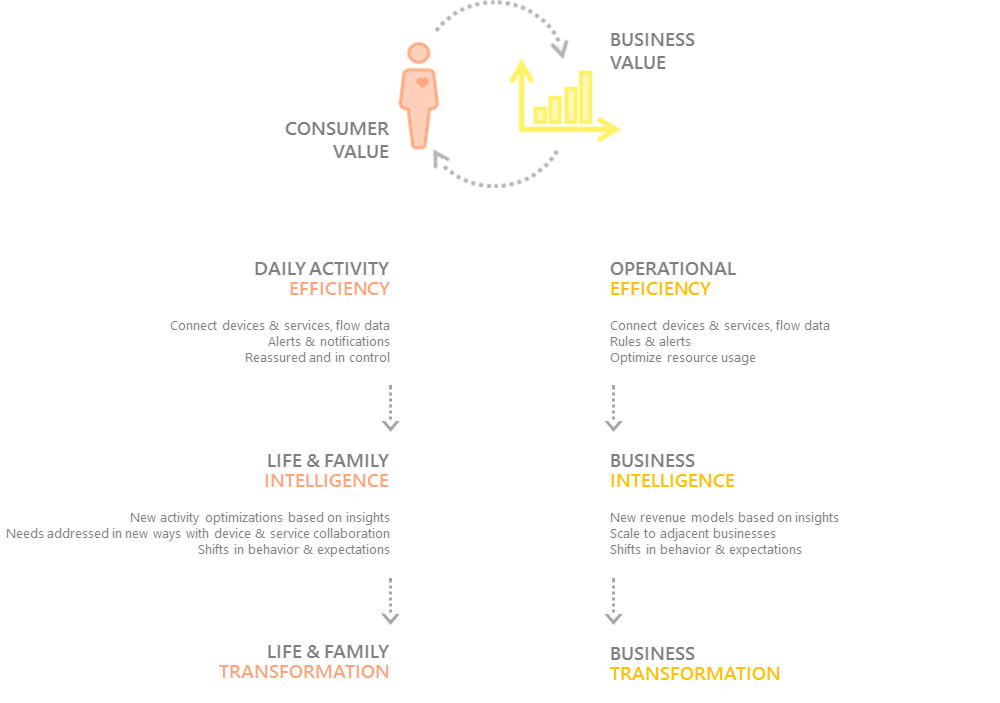
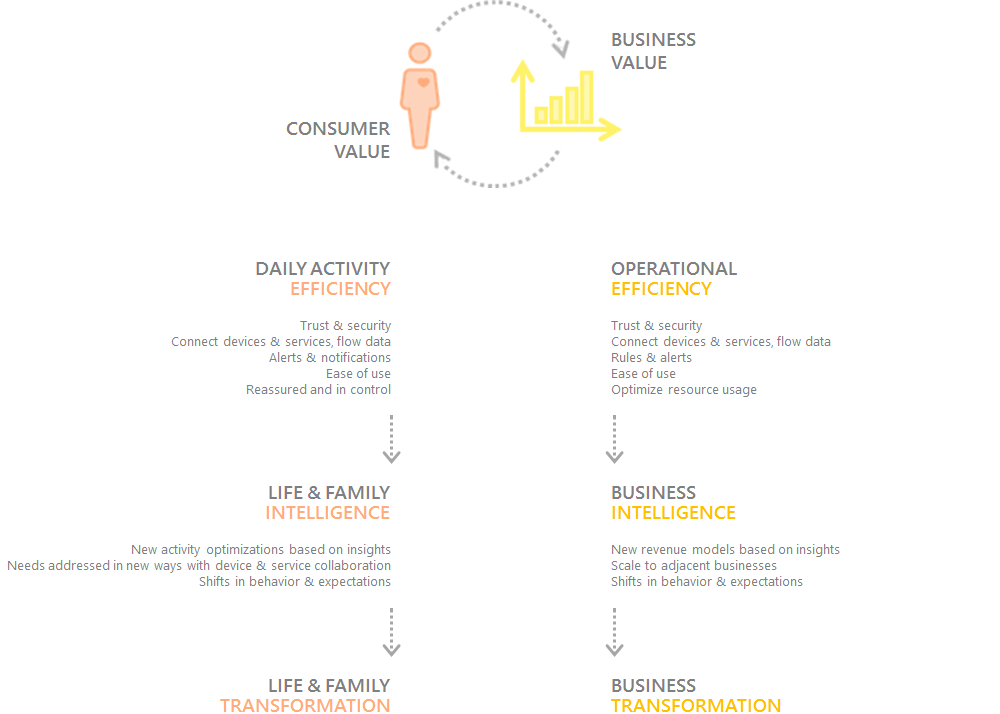
Updated content on IOT summary image

diff --git a/app/partials/IOT.html b/app/partials/IOT.html
@@ -46,7 +46,7 @@
                 <img class="ResizableImg" src="images/value_0.png"  width="3961" height="807" />
             </div>
             <div class="BodyImgs2" style="margin-top: 50px;">
-                <img class="ResizableImg" src="images/value_1.png" width="3961" height="807" />
+                <img class="ResizableImg" src="images/value_1.png" width="1000" height="714" />
             </div>
         </div>
 
